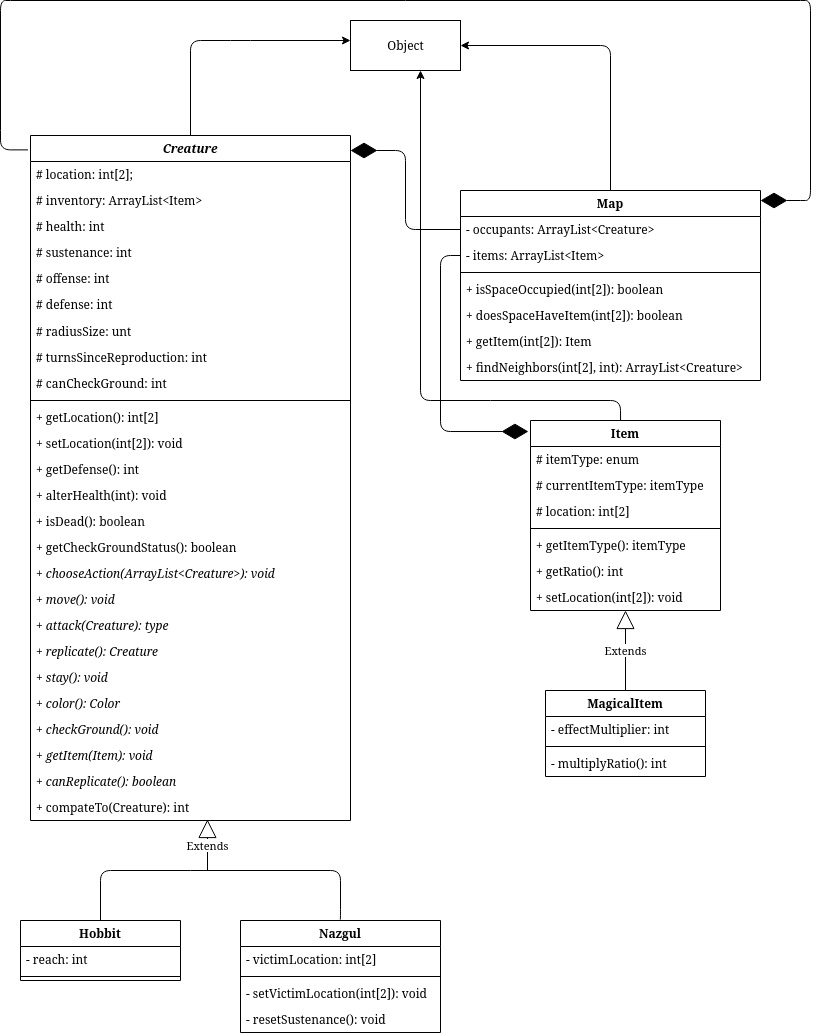
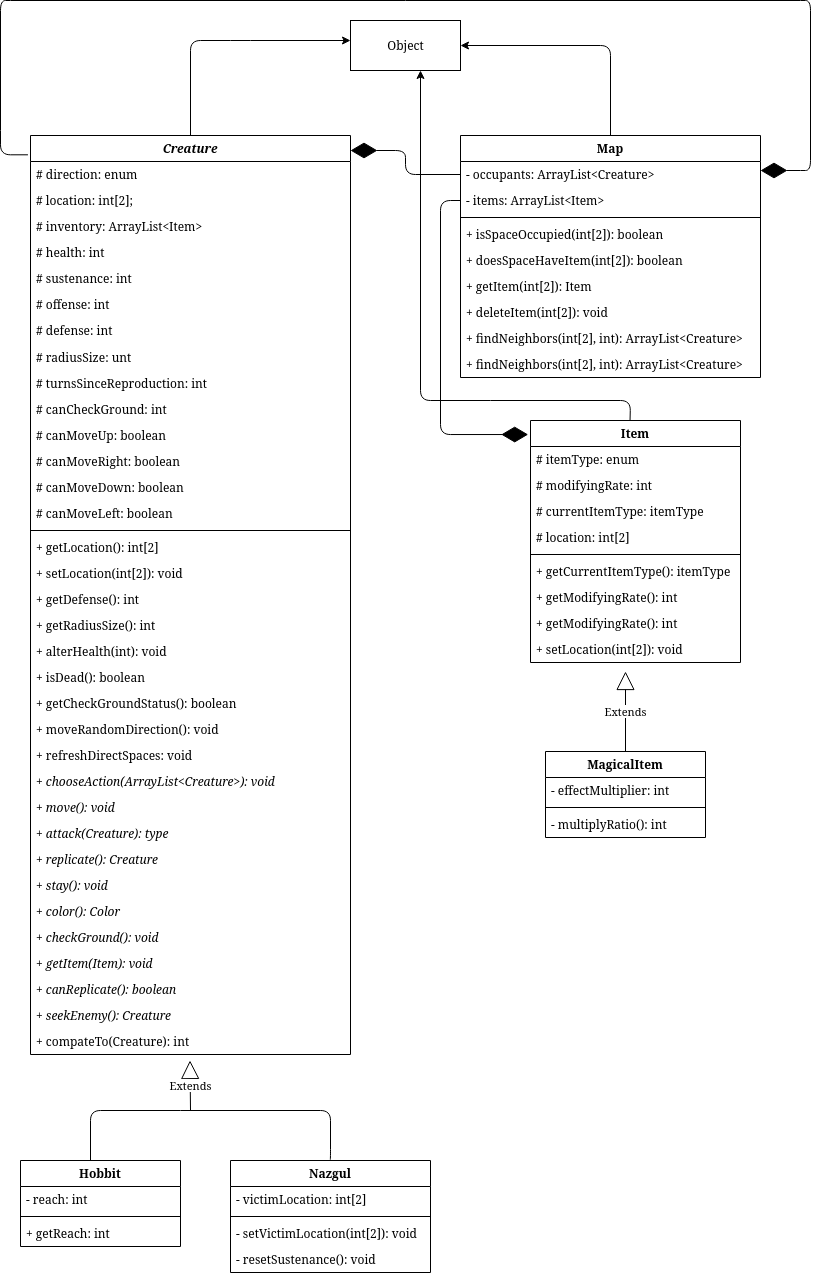
Work in Progress: modified read me file, UML diagram, and other parts of program files

diff --git a/final_project/Creature.java b/final_project/Creature.java
@@ -18,7 +18,8 @@ public abstract class Creature implements Comparable<Creature>{
 	
 	// class features
 	
-	protected enum direction { UP, RIGHT, DOWN, LEFT };
+	protected enum direction { UP, RIGHT, DOWN, LEFT }; // for telling move what way
+	                                                    // to go in a clean way
 	
 	// location based on a 100 * 100 map
 	// (actual window will be 500 * 500)
@@ -109,10 +110,12 @@ public abstract class Creature implements Comparable<Creature>{
 		return canCheckGround;
 	}
 	
+	// move in a random direction - this should ONLY
+	// be called if there are no friends or foes nearby
 	public void moveRandomDirection() {
 		
 		Random rng = new Random();
-		int roll = Math.abs(rng.nextInt() % 4) + 1;
+		int roll = Math.abs(rng.nextInt() % 3) + 1;
 		direction way = direction.UP; // will tell move() what way to go
 		if(roll == 1) {
 			way = direction.UP;

diff --git a/final_project/Driver.java b/final_project/Driver.java
@@ -95,7 +95,7 @@ public class Driver extends JPanel implements ActionListener {
 			ArrayList<Creature> neighborData = session.findNeighbors(c.getLocation(), c.getRadiusSize());
 			c.chooseAction(neighborData);
 			c.stay();
-			if(c.canCheckGround && session.doesSpaceHaveItem(c.getLocation())) {
+			if(c.getCheckGroundStatus() && session.doesSpaceHaveItem(c.getLocation())) {
 				Item item = session.getItem(c.getLocation());
 				c.getItem(item);
 				session.deleteItem(c.getLocation());

diff --git a/final_project/unit_tests/CreatureAndHobbitTest.java b/final_project/unit_tests/CreatureAndHobbitTest.java
@@ -501,6 +501,15 @@ class CreatureAndHobbitTest {
 		assertEquals(-1, here.compareTo(more));
 		assertEquals(0, here.compareTo(copy));
 		
+		int[] left = { 0, 49 };
+		int[] right = { 0, 50 };
+		
+		// extra case test added: points right next to each other
+		Hobbit hobbitOnLeft = new Hobbit(left, 10, 4, 5);
+		Nazgul nazgulOnRight = new Nazgul(right, 20, 5, 4);
+		
+		assertEquals(1, nazgulOnRight.compareTo(hobbitOnLeft));
+		
 	}
 
 }

diff --git a/final_project/Nazgul.java b/final_project/Nazgul.java
@@ -376,8 +376,7 @@ public class Nazgul extends Creature {
 		
 		// "roll the dice" to see if the Nazgul gets
 		// a critcal hit, if so, deal twice the damage
-		
-		// rule: critical hits do not nullify a Hobbit's defense
+		// and ignore defense stat on Hobbit
 		
 		int diceRoll = Math.abs(rng.nextInt() % 6) + 1;
 		int damage = 0;
